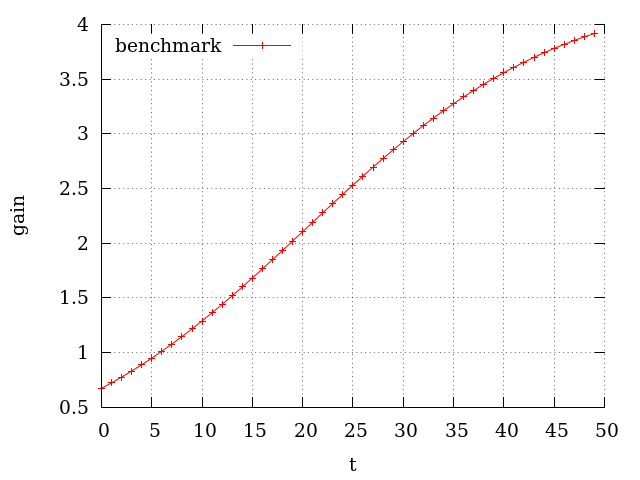
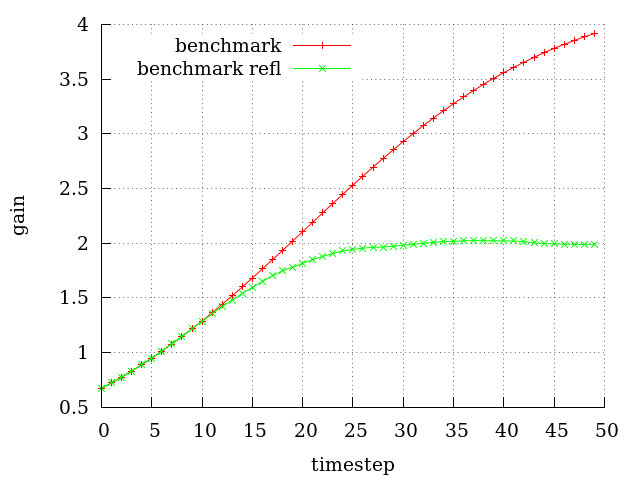
* new benchmarks

diff --git a/paper/results.tex b/paper/results.tex
@@ -24,6 +24,13 @@ points and 5400 prisms respectively.
 
   \item \textbf{Image: gain VS time for one single point. Overlay between
     experiment/daniels sim/our sim}
+    \begin{figure}[H]
+      \centerline{
+        \resizebox{0.5\textwidth}{!}{\includegraphics{plot/benchmark.png}}}
+      \caption{gain of single sample point in 50 timessteps}
+      \label{plot:benchmark}
+    \end{figure}
+
 
   \item comparison with previous values from Daniel's thesis
 
